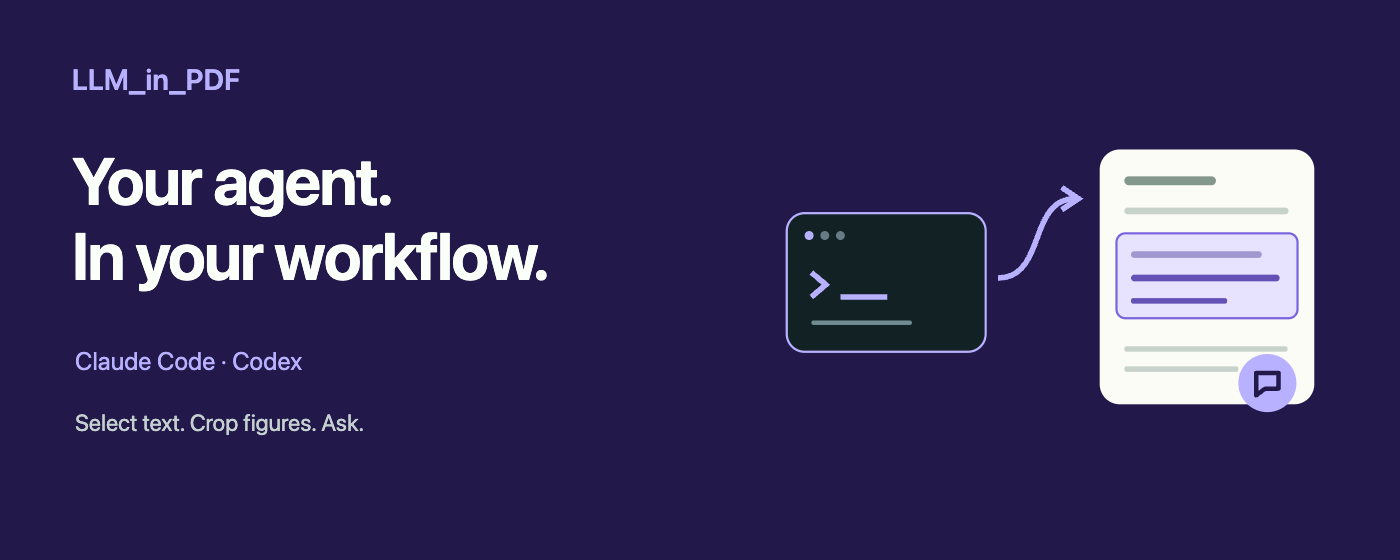
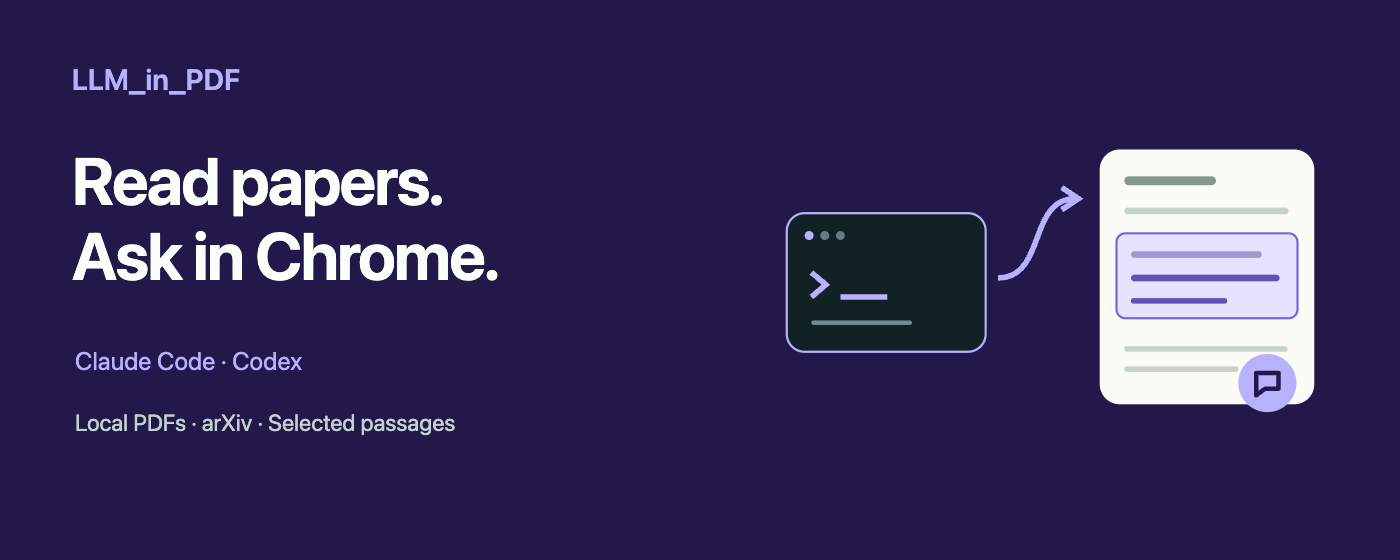
Clarify PDF interactive reading and selection Q&A positioning

Changed region(s): [[0.0307, 0.2732, 0.3993, 0.5161], [0.0614, 0.7286, 0.3379, 0.7893]]

diff --git a/LLM_in_PDF/extension/popup/popup.html b/LLM_in_PDF/extension/popup/popup.html
@@ -7,7 +7,7 @@
 <body>
   <div class="wrap">
     <div class="brand">📄 LLM_in_PDF</div>
-    <p class="sub">本机 Claude Code / Codex，接入你的 PDF 工作流</p>
+    <p class="sub">在 Chrome 中读本地 PDF、arXiv 等平台论文，用本机 Claude Code / Codex 交互式阅读、选局部问答。</p>
 
     <p class="tip">发送问题会把正文、选段与框图交给所选模型服务；原 PDF 保存在本地，不被改写。</p>
     <label class="field"><span><input id="pdfReaderEnabled" type="checkbox" checked> 自动在 PDF 旁打开 Agent 问答</span></label>

diff --git a/LLM_in_PDF/server/server.js b/LLM_in_PDF/server/server.js
@@ -12,7 +12,7 @@ import { runModel } from './cli.js';
 import { buildPrompt } from './prompt.js';
 import { getModels } from './models.js';
 
-const VERSION = '0.9.1';
+const VERSION = '0.9.2';
 
 const extensionId = process.env.LLM_IN_PDF_EXTENSION_ID || 'acafiedlcaibhilacmadmiklkfhmlhjo';
 if (!/^[a-p]{32}$/.test(extensionId)) throw new Error('LLM_IN_PDF_EXTENSION_ID must contain exactly 32 letters a-p.');

diff --git a/LLM_in_PDF/server/native-host.js b/LLM_in_PDF/server/native-host.js
@@ -8,7 +8,7 @@ import { runModel } from './cli.js';
 import { buildPrompt } from './prompt.js';
 import { getModels } from './models.js';
 
-const VERSION = '0.9.1';
+const VERSION = '0.9.2';
 
 // Chrome 限制：发给插件的单条消息不能超过 1MB
 const MAX_MSG_BYTES = 1000 * 1024;

diff --git a/tools/bundle-store-materials.py b/tools/bundle-store-materials.py
@@ -1,6 +1,7 @@
 """Bundle publisher-facing store materials separately from extension upload ZIPs."""
 from pathlib import Path
 import hashlib
+import json
 import zipfile
 
 ROOT = Path(__file__).resolve().parents[1]
@@ -8,7 +9,9 @@ ROOT = Path(__file__).resolve().parents[1]
 def main() -> None:
     out = ROOT / 'dist/chrome-store'
     out.mkdir(parents=True, exist_ok=True)
-    target = out / 'LLM_in_Work-chrome-store-materials-0.9.1.zip'
+    report = json.loads((out / 'package-report.json').read_text())
+    version = max((item['version'] for item in report.values()), key=lambda value: tuple(map(int, value.split('.'))))
+    target = out / f'LLM_in_Work-chrome-store-materials-{version}.zip'
     with zipfile.ZipFile(target, 'w', zipfile.ZIP_DEFLATED) as z:
         for p in sorted((ROOT / 'docs/chrome-store').rglob('*')):
             if p.is_file(): z.write(p, p.relative_to(ROOT))

diff --git a/docs/chrome-store/README.zh-CN.md b/docs/chrome-store/README.zh-CN.md
@@ -1,8 +1,8 @@
 # Chrome 商店发布包与操作指南
 
-核对日期：2026-10-08。适用：LLM_in_Overleaf 0.9.1、LLM_in_PDF 0.9.1。
+核对日期：2026-10-08。适用：LLM_in_Overleaf 0.9.1、LLM_in_PDF 0.9.2。
 
-核心介绍统一为：**把本机已安装、已登录的 Claude Code、Codex Agent 接入日常工作流，在原软件中使用它们的能力，精确选定局部，审阅并确认修改，或围绕选区问答。** Overleaf 可以修改 LaTeX；PDF 负责 Chrome 中的选字/框图问答，不修改 PDF 原文。桥在本机，模型推理通常仍在服务商。
+核心介绍统一为：**把本机已安装、已登录的 Claude Code、Codex Agent 接入日常工作流，在原软件中使用它们的能力，精确选定局部，审阅并确认修改，或围绕选区问答。** Overleaf 可以修改 LaTeX；PDF 帮你在 Chrome 中阅读本地 PDF 和 arXiv 等平台论文，交互式调用本机 Agent，选中文字或框选图表进行局部问答，原 PDF 保持不变。桥在本机，模型推理通常仍在服务商。
 
 这是可复现的发布准备材料。商店条目 ID、账号验证、最终申报、审核结果由 Chrome 开发者后台确定；本目录不表示已上架。
 
@@ -13,10 +13,10 @@
 | 文件 | 用途 |
 | --- | --- |
 | `LLM_in_Overleaf-0.9.1-chrome.zip` | 上传 Overleaf 的 Chrome 商店条目 |
-| `LLM_in_PDF-0.9.1-chrome.zip` | 上传 PDF 的 Chrome 商店条目 |
+| `LLM_in_PDF-0.9.2-chrome.zip` | 上传 PDF 的 Chrome 商店条目 |
 | `*-companion.zip` | 给用户下载的本机桥及完整运行源码；不要上传到商店的扩展包栏 |
 | `package-report.json`、`SHA256SUMS.txt` | 包内容、权限、资源引用及 SHA-256 校验 |
-| `LLM_in_Work-chrome-store-materials-0.9.1.zip` | 文案、权限说明、审核步骤和图片的材料合集，由 `python3 tools/bundle-store-materials.py` 生成；不上传到扩展包栏 |
+| `LLM_in_Work-chrome-store-materials-0.9.2.zip` | 文案、权限说明、审核步骤和图片的材料合集，由 `python3 tools/bundle-store-materials.py` 生成；不上传到扩展包栏 |
 
 浏览器 ZIP 根目录就是 `manifest.json`，包含全部扩展脚本、图片及第三方运行依赖和许可证，不包含 Node 后端、node_modules、凭证、私钥或测试数据。商店 ZIP 不携带开发版公钥 `key`；源码保留原公钥，避免改变现有开发版 ID。
 
@@ -27,7 +27,7 @@
 1. 打开 [Chrome Developer Dashboard](https://chrome.google.com/webstore/devconsole)，使用原来准备发布时的 Google 账号。
 2. 查看是否已有 LLM_in_Overleaf、LLM_in_PDF 或旧名 paper_read。已有条目就进入该条目更新；确认没有才选 **Add new item**。
 3. 完成开发者注册、邮箱验证和两步验证。账号身份、费用及分发资格按后台提示由账号持有人确认。
-4. 记录每个条目的 **Item ID** 和当前最高包版本。这里准备的是 0.9.1；如果后台曾上传相同或更高版本，先把项目 `package.json`、锁文件、manifest 和本机桥版本一起提升，再重新打包，不要新建重复条目来绕过版本要求。
+4. 记录每个条目的 **Item ID** 和当前最高包版本。这里准备的是 Overleaf 0.9.1、PDF 0.9.2；如果后台曾上传相同或更高版本，先把项目 `package.json`、锁文件、manifest 和本机桥版本一起提升，再重新打包，不要新建重复条目来绕过版本要求。
 
 ## 3. 上传包，核对扩展 ID
 

diff --git a/README.md b/README.md
@@ -43,7 +43,7 @@ https://github.com/user-attachments/assets/b44d0ada-1b19-463f-98a0-4123b95bac15
 - **Careful by design.** The original text is checked again before writing, so an edit never lands in the wrong place. Table and spreadsheet edits touch only the rows and cells that changed. Claude calls disable your MCP servers and restrict tools; Codex uses a read-only sandbox. See the security notes for details.
 - **Formatting and slide redesign in PowerPoint.** Format mode changes how a slide looks, not its words: from “make this black border lighter” to “polish this whole slide”, which splits crowded bullets into cards, lines up fonts, sizes and colours, and separates text from pictures. Big changes are checked once from a new image of the slide, and Undo puts the whole slide back.
 - **Ask, not only edit.** Document Q&A in Word, Ask mode in Overleaf, PDF questions in Chrome, Presentation Q&A in PowerPoint (speaker notes, consistency checks, with an image of the slide if you like) and Workbook Q&A in Excel (summaries, outliers, formula explanations, with cell addresses) answer questions without changing your text.
-- **Use your agent with PDFs in Chrome.** LLM_in_PDF connects online PDFs, local files and paper webpages to your local agent; select text or crop a figure to ask about it. Markdown, formulas, per-document history and conversation export are built in. PDFs stay unchanged.
+- **Read papers interactively and ask about selected content in Chrome.** LLM_in_PDF helps you read local PDFs and papers from arXiv and other platforms with your local Claude Code or Codex agent. Select a passage or crop a figure for explanations, summaries, translations and follow-up questions. Markdown, formulas, per-document history and conversation export are built in. PDFs stay unchanged.
 - **English and 中文.** The four editing assistants have switchable interfaces. The PDF interface is currently Chinese and supports English/Chinese questions and answers.
 
 ## Five assistants for writing and reading
@@ -131,7 +131,7 @@ All five bridges run locally and add no cloud service of their own. The model it
 
 **You need:** Node.js 22.13+ (22.x) or 24+, and at least one CLI installed and signed in: [Claude Code](https://code.claude.com/docs/en/setup) (`claude auth login`) or [Codex CLI](https://github.com/openai/codex) (`codex login`).
 
-Publishing a Chrome extension? The [store package and submission guide](docs/chrome-store/README.zh-CN.md) includes version 0.9.1 bundles, bilingual listings, images, permission explanations and the [privacy policy](docs/chrome-store/PRIVACY.md). Store approval is still pending submission; the setup below is for unpacked development extensions.
+Publishing a Chrome extension? The [store package and submission guide](docs/chrome-store/README.zh-CN.md) includes Overleaf 0.9.1 / PDF 0.9.2 bundles, bilingual listings, images, permission explanations and the [privacy policy](docs/chrome-store/PRIVACY.md). Store approval is still pending submission; the setup below is for unpacked development extensions.
 
 ```bash
 git clone https://github.com/ZJU-OmniAI/LLM_in_Work.git

diff --git a/README.zh-CN.md b/README.zh-CN.md
@@ -43,7 +43,7 @@ https://github.com/user-attachments/assets/08b40aef-50ba-4772-aff1-d24c1b488da0
 - **写回前再核对。** 写入前会重新核对原文，防止改错位置；表格和工作簿只改真正变化的行和单元格。Claude 调用不加载你本机的 MCP 服务并限制工具；Codex 使用只读沙箱，详情见安全说明。
 - **PowerPoint 还能调版式、整页美化。**「调整版式」模式改格式不改文字：小到「把这个黑框改浅一点」，大到「把这一页整体美化」——把挤在一起的要点拆成卡片、统一字体字号和配色、图文分区。大改应用后自动截图自查一轮，撤销时整页原样换回。
 - **不只改写，还能提问。** Word 的「文档问答」、Overleaf 的「问答」模式、Chrome 中的 PDF 问答、PowerPoint 的「演示文稿问答」（写讲稿、查前后一致，还可以附上当前页截图）和 Excel 的「表格问答」（总结、找异常、解释公式，注明单元格地址）可以讨论全文，不会改动正文。
-- **把 Agent 接入 Chrome 中的 PDF。** LLM_in_PDF 支持浏览器里的在线 PDF、本地文件和论文网页；选中文字或框选图表直接提问，支持 Markdown、公式、按文档保存会话和完整导出，PDF 原文保持不变。
+- **在 Chrome 中交互式读论文、选局部问答。** LLM_in_PDF 帮你阅读 Chrome 中打开的本地 PDF 和 arXiv 等平台的论文，调用本机 Claude Code 或 Codex，选中文字或框选图表即可解释、总结、翻译和继续追问。支持 Markdown、公式、按文档保存会话和完整导出，PDF 原文保持不变。
 - **中英文支持。** 四个编辑助手可切换界面语言；PDF 界面目前为中文，支持中英文提问和回答。
 
 ## 五个助手，覆盖写作与阅读
@@ -131,7 +131,7 @@ flowchart LR
 
 **准备：** Node.js 22.13+（22.x）或 24+；至少安装并登录一个命令行工具：[Claude Code](https://code.claude.com/docs/en/setup)（`claude auth login`）或 [Codex CLI](https://github.com/openai/codex)（`codex login`）。
 
-准备发布 Chrome 插件？[商店发布包与操作指南](docs/chrome-store/README.zh-CN.md) 已整理 0.9.1 版本包、中英文介绍、图片、权限说明和[隐私政策](docs/chrome-store/PRIVACY.md)。目前材料待提交审核，尚未宣称商店上架；下表是开发版加载方式。
+准备发布 Chrome 插件？[商店发布包与操作指南](docs/chrome-store/README.zh-CN.md) 已整理 Overleaf 0.9.1 / PDF 0.9.2 版本包、中英文介绍、图片、权限说明和[隐私政策](docs/chrome-store/PRIVACY.md)。目前材料待提交审核，尚未宣称商店上架；下表是开发版加载方式。
 
 ```bash
 git clone https://github.com/ZJU-OmniAI/LLM_in_Work.git

diff --git a/docs/chrome-store/pdf/listing.en.md b/docs/chrome-store/pdf/listing.en.md
@@ -1,15 +1,15 @@
-LLM_in_PDF brings your local Claude Code or Codex agent into your PDF workflow in Chrome. Select a passage or crop a figure and ask beside the document, with the original PDF unchanged.
+LLM_in_PDF helps you read local PDFs and papers from arXiv and other platforms in Chrome, interactively using your local Claude Code or Codex agent to ask about selected passages, figures and formulas.
 
-Your local agent, in the software where you already work.
+Read papers and ask questions with your local agent, right beside the document.
 
-Claude Code and Codex can already edit and explain documents. The missing step is pointing to the exact part you mean and reviewing the result in place. LLM_in_Work connects the agent already installed and signed in on your computer to your everyday workflow, for precise control over selected content and in-place questions.
+When reading a paper, you often want to understand one particular paragraph, chart or formula. Select it, ask beside the document, read the explanation and follow up. LLM_in_PDF connects the Claude Code or Codex agent already installed and signed in on your computer to that reading process, keeping the interaction focused on the part you mean.
 
 THIS EXTENSION'S FOCUS
-LLM_in_PDF provides questions and explanations for selected PDF text and images. It does not modify PDF content. It integrates your local agent into Chrome's document workflow, using a bundled PDF.js view for text selection and image crops.
+Read local PDFs opened in Chrome, online PDFs and paper webpages from arXiv and other platforms. Explore the paper interactively through questions about selected content; the original PDF remains unchanged. A bundled PDF.js view displays PDFs, extracts text and supports image crops.
 
 WHAT YOU CAN DO
-• Open online PDFs, import local PDFs, or read supported paper webpages.
-• Select the exact passage you want explained, summarized or translated.
+• Read local PDFs in Chrome and online papers from arXiv and other platforms.
+• Select the exact passage you want explained, summarized or translated, then ask follow-up questions in context.
 • Crop a chart, formula or scanned region and discuss the actual image.
 • Keep conversations per document, revisit archived chats and copy conversations as Markdown.
 • Read streamed replies with tables, code and mathematical notation.

diff --git a/docs/chrome-store/pdf/listing.zh-CN.md b/docs/chrome-store/pdf/listing.zh-CN.md
@@ -1,15 +1,15 @@
-LLM_in_PDF 把本机 Claude Code 或 Codex Agent 接入 Chrome 中的 PDF 工作流。读到哪一段、看到哪张图，直接选中或框选，在文档旁边提问，PDF 原文保持不变。
+LLM_in_PDF 帮你在 Chrome 中阅读本地 PDF 和 arXiv 等平台的论文，交互式调用本机 Claude Code、Codex Agent，围绕选中的文字、图表或公式进行局部问答。
 
-让本机 Agent，来到你正在工作的地方。
+让本机 Agent，陪你边读论文、边提问。
 
-Claude Code、Codex 已经能编辑文档、解释内容。实际工作中，你还需要指出“就改这里”，在原处看清变化，并决定是否应用。LLM_in_Work 把本机已安装、已登录的 Agent 接入日常工作软件，在熟悉的界面中使用它们的能力，实现精确、局部可控的编辑、修改和问答。
+读论文时，你往往只想弄懂眼前这一段、这张图或这个公式。选中它，直接在文档旁提问、查看解释，再继续追问。LLM_in_PDF 把你本机已安装、已登录的 Claude Code 或 Codex 接入这个阅读过程，让问答精确围绕当前局部内容展开。
 
 这个扩展负责什么
-LLM_in_PDF 专注 PDF 文字与图片的选区问答，不修改 PDF 内容。它利用随扩展打包的 PDF.js 显示文档、提取文字和框选图像，把本机 Agent 的能力接入你在 Chrome 中的阅读流程。
+支持 Chrome 中打开的本地 PDF、arXiv 等平台的在线 PDF 和论文网页。你可以交互式阅读、选择局部内容提问，PDF 原文保持不变。PDF 视图使用随扩展打包的 PDF.js 显示文档、提取文字和框选图像。
 
 你可以做什么
-• 打开在线 PDF、导入本地 PDF，或读取论文网页。
-• 精确选择一句话或一段内容，解释、总结或翻译。
+• 阅读 Chrome 中打开的本地 PDF，以及 arXiv 等平台的在线论文。
+• 选中一句话或一段内容，解释、总结、翻译，并结合上下文继续追问。
 • 框选图表、公式、扫描区域，围绕真实图片讨论。
 • 按文档保存对话，找回历史，并复制为 Markdown。
 • 在流式回复中查看表格、代码和数学公式。

diff --git a/docs/chrome-store/PRIVACY.md b/docs/chrome-store/PRIVACY.md
@@ -1,6 +1,6 @@
 # Privacy policy — LLM_in_Overleaf and LLM_in_PDF
 
-Effective date: 8 October 2026. Applies to version 0.9.1 of both Chrome extensions and their companion programs in the [LLM_in_Work project](https://github.com/ZJU-OmniAI/LLM_in_Work). Maintained by ZJU-OmniAI and contributors. [中文](#中文).
+Effective date: 8 October 2026. Applies to LLM_in_Overleaf 0.9.1 and LLM_in_PDF 0.9.1–0.9.2, including their companion programs in the [LLM_in_Work project](https://github.com/ZJU-OmniAI/LLM_in_Work). Maintained by ZJU-OmniAI and contributors. [中文](#中文).
 
 ## Purpose and information processed
 
@@ -37,7 +37,7 @@ Material changes to these practices will be reflected in this document and its e
 
 ## 中文
 
-生效日期：2026 年 10 月 8 日。适用于 LLM_in_Overleaf、LLM_in_PDF 两个 Chrome 扩展及其配套本机程序的 0.9.1 版本，由 ZJU-OmniAI 与贡献者维护。
+生效日期：2026 年 10 月 8 日。适用于 LLM_in_Overleaf 0.9.1、LLM_in_PDF 0.9.1–0.9.2 扩展及其配套本机程序，由 ZJU-OmniAI 与贡献者维护。
 
 **用途与数据。** 两个扩展把你本机安装的 Claude Code、Codex Agent 接入工作流。本机桥不等于离线模型。Overleaf 会处理当前 `.tex` 文件、选段、项目/文件标识与网址、指令、会话及主动添加的附件；选区限定写回位置，不限定模型读取的全部上下文。只有点击应用才会写入修改。PDF 会处理打开的文档、网址与标题、提取文字、选段、消息、回复和框选图像；提问时可携带最多 60 万字符正文与最近最多四张图像。导入的原 PDF 字节保存在浏览器，提取文字和图像会用于模型请求，原 PDF 不被改写。
 

diff --git a/docs/chrome-store/ASSETS.md b/docs/chrome-store/ASSETS.md
@@ -1,6 +1,6 @@
 # Store assets and provenance
 
-Captured/generated on 2026-10-08 for extension version 0.9.1. All screenshot canvases are 1280×800 PNG, square-cornered and full-bleed. Each extension has English and Simplified Chinese listing asset folders. No personal document, account or credential is shown.
+Captured/generated on 2026-10-08 for extension version 0.9.1. PDF 0.9.2 changes descriptive copy only and retains these functional screenshots; its promotional marquee now explicitly mentions local PDFs and arXiv. All screenshot canvases are 1280×800 PNG, square-cornered and full-bleed. Each extension has English and Simplified Chinese listing asset folders. No personal document, account or credential is shown.
 
 - **Overleaf:** the real extension UI and a real CodeMirror editor run on a local synthetic demonstration workspace. The visible header says `DEMO WORKSPACE · REAL EXTENSION UI`; this is not the hosted Overleaf website. Selection, live Claude generation, diff review, application and unchanged surrounding content are checked during capture. The harness forwards messages to the real local native host. Chrome's installed Native Messaging registration is tested separately.
 - **PDF:** the real extension runs in an isolated Chromium profile with a two-page synthetic PDF generated from `docs/video/demo-paper.html`. Text and image answers come from the real Claude CLI through the actual local HTTP companion. Import, selected text, actual image crops, reload persistence and copy are exercised. The source document labels its values as synthetic. Both listing languages use the same screenshots because the current PDF interface is Chinese, as disclosed in the listings.

diff --git a/LLM_in_PDF/README.md b/LLM_in_PDF/README.md
@@ -1,10 +1,12 @@
 # LLM_in_PDF
 
-**Connect your local Claude Code or Codex to PDFs in Chrome: select text or a figure and ask beside the document.**
+**Read local PDFs and papers from arXiv and other platforms in Chrome, interactively using your local Claude Code or Codex agent to ask about selected passages and figures.**
 
 **English** · [简体中文](README.zh-CN.md) · [LLM_in_Work](../README.md)
 
-Previously `paper_read`, now part of LLM_in_Work. This Chrome extension brings your signed-in local agent into the PDF workflow already in your browser, for online/local PDFs and paper webpages. Select the exact passage or crop a figure and ask about it alongside the document. PDFs remain unchanged. The interface is currently Chinese; questions and answers can be English or Chinese.
+LLM_in_PDF connects the Claude Code or Codex agent already installed and signed in on your computer to your paper-reading workflow. Open a local PDF in Chrome, or a paper from arXiv or another platform, then select a passage or crop a figure or formula. Ask for an explanation, summary or translation, and continue with follow-up questions beside the document. Your questions stay focused on the part you are reading; the original PDF remains unchanged.
+
+Previously `paper_read`, now part of LLM_in_Work. Supports local and online PDFs and paper webpages. The interface is currently Chinese; questions and answers can be English or Chinese.
 
 ![Ask about a PDF figure](docs/images/pdf-image-chat.jpg)
 
